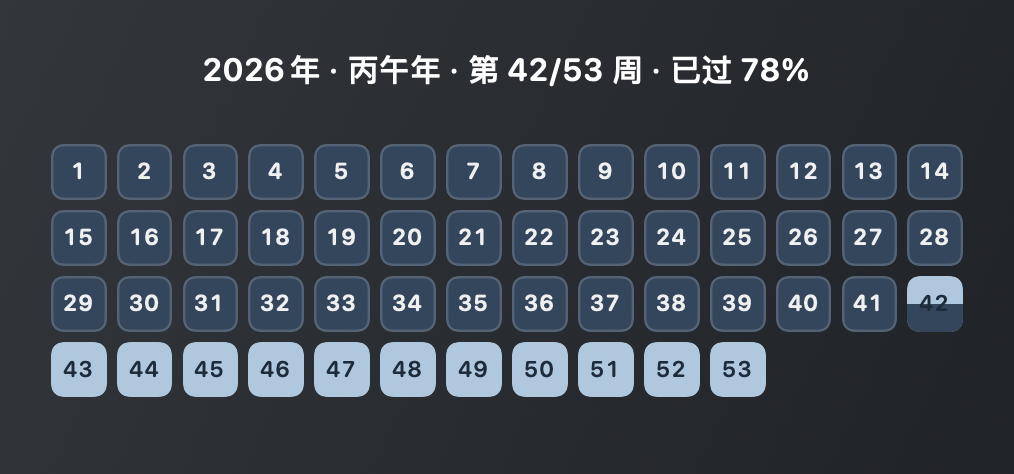
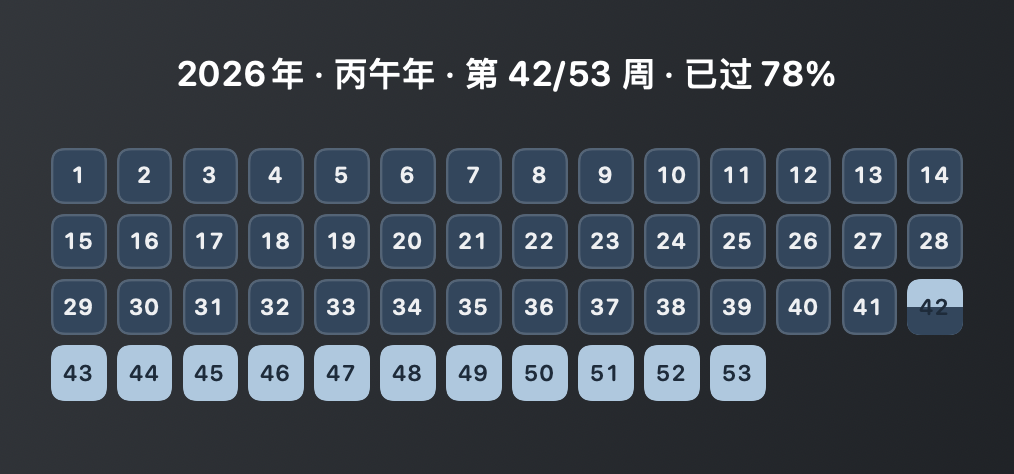
style(ui): 顶部字号+1，并在顶边与网格之间垂直居中

diff --git a/Sources/YearProgressUI/YearProgressCardView.swift b/Sources/YearProgressUI/YearProgressCardView.swift
@@ -49,7 +49,7 @@ public struct YearProgressCardView: View {
                                                  forcedColumns: fixedColumns)
 
         content(m: m, layout: layout, note: note)
-            .padding(m.padding)
+            .padding(.horizontal, m.padding)
             .frame(width: size.width, height: size.height, alignment: .top)
             .background(
                 LinearGradient(colors: theme.backgroundColors, startPoint: .topLeading, endPoint: .bottomTrailing)
@@ -58,30 +58,41 @@ public struct YearProgressCardView: View {
     }
 
     private func content(m: CardMetrics, layout: WeekGridLayout, note: String?) -> some View {
-        VStack(spacing: 0) {
-            // 年份 + 干支 + 周计数 + 百分比，合并成顶部一行居中
-            Text(progress.headerText(compact: m.usesCompactHeader))
-                .font(.system(size: m.headerFont, weight: .semibold, design: .rounded))
-                .foregroundStyle(theme.primaryText)
-                .lineLimit(1)
-                .minimumScaleFactor(0.65)
-                .frame(maxWidth: .infinity, alignment: .center)
+        // 网格在剩余空间里居中后，上方会留出 slack/2 的余量；
+        // 顶部文字要在这段「卡片上边缘 → 网格顶部」的区域里垂直居中。
+        let area = m.gridArea(noteVisible: note != nil)
+        let slack = max(0, CGFloat(area.height) - CGFloat(layout.gridHeight))
+        let headerBlock = m.headerHeight + (note == nil ? 0 : m.noteGap + m.noteHeight)
+        let topRegion = m.padding + headerBlock + m.headerGap + slack / 2
 
-            // 只有年初/年末那 1–3 天（跨年周）才补一行小字
-            if let note {
-                Text(note)
-                    .font(.system(size: m.noteFont, weight: .medium))
-                    .foregroundStyle(theme.secondaryText)
+        return VStack(spacing: 0) {
+            VStack(spacing: 0) {
+                // 年份 + 干支 + 周计数 + 百分比，合并成顶部一行居中
+                Text(progress.headerText(compact: m.usesCompactHeader))
+                    .font(.system(size: m.headerFont, weight: .semibold, design: .rounded))
+                    .foregroundStyle(theme.primaryText)
                     .lineLimit(1)
-                    .minimumScaleFactor(0.7)
-                    .padding(.top, m.noteGap)
+                    .minimumScaleFactor(0.65)
                     .frame(maxWidth: .infinity, alignment: .center)
-            }
 
-            // 网格在「头部以下的剩余空间」里垂直居中（不随尺寸变化而偏上/偏下）
+                // 只有年初/年末那 1–3 天（跨年周）才补一行小字
+                if let note {
+                    Text(note)
+                        .font(.system(size: m.noteFont, weight: .medium))
+                        .foregroundStyle(theme.secondaryText)
+                        .lineLimit(1)
+                        .minimumScaleFactor(0.7)
+                        .padding(.top, m.noteGap)
+                        .frame(maxWidth: .infinity, alignment: .center)
+                }
+            }
+            .frame(maxWidth: .infinity)
+            .frame(height: topRegion, alignment: .center)   // 在顶边与网格之间垂直居中
+
             grid(layout, metrics: m)
-                .padding(.top, m.headerGap)
-                .frame(maxWidth: .infinity, maxHeight: .infinity, alignment: .center)
+                .frame(height: CGFloat(layout.gridHeight), alignment: .top)
+
+            Spacer(minLength: 0)
         }
     }
 

diff --git a/Sources/YearProgressUI/CardMetrics.swift b/Sources/YearProgressUI/CardMetrics.swift
@@ -47,7 +47,7 @@ public struct CardMetrics {
     public var headerGap: CGFloat { max(6, size.width * profile.headerGapRatio) }
     public var noteGap: CGFloat { max(2, size.width * profile.noteGapRatio) }
 
-    public var headerFont: CGFloat { clamp(size.width * profile.headerRatio, profile.headerRange) }
+    public var headerFont: CGFloat { clamp(size.width * profile.headerRatio, profile.headerRange) + 1 }
     public var noteFont: CGFloat { clamp(size.width * profile.noteRatio, profile.noteRange) }
 
     public var headerHeight: CGFloat { headerFont * 1.35 }
